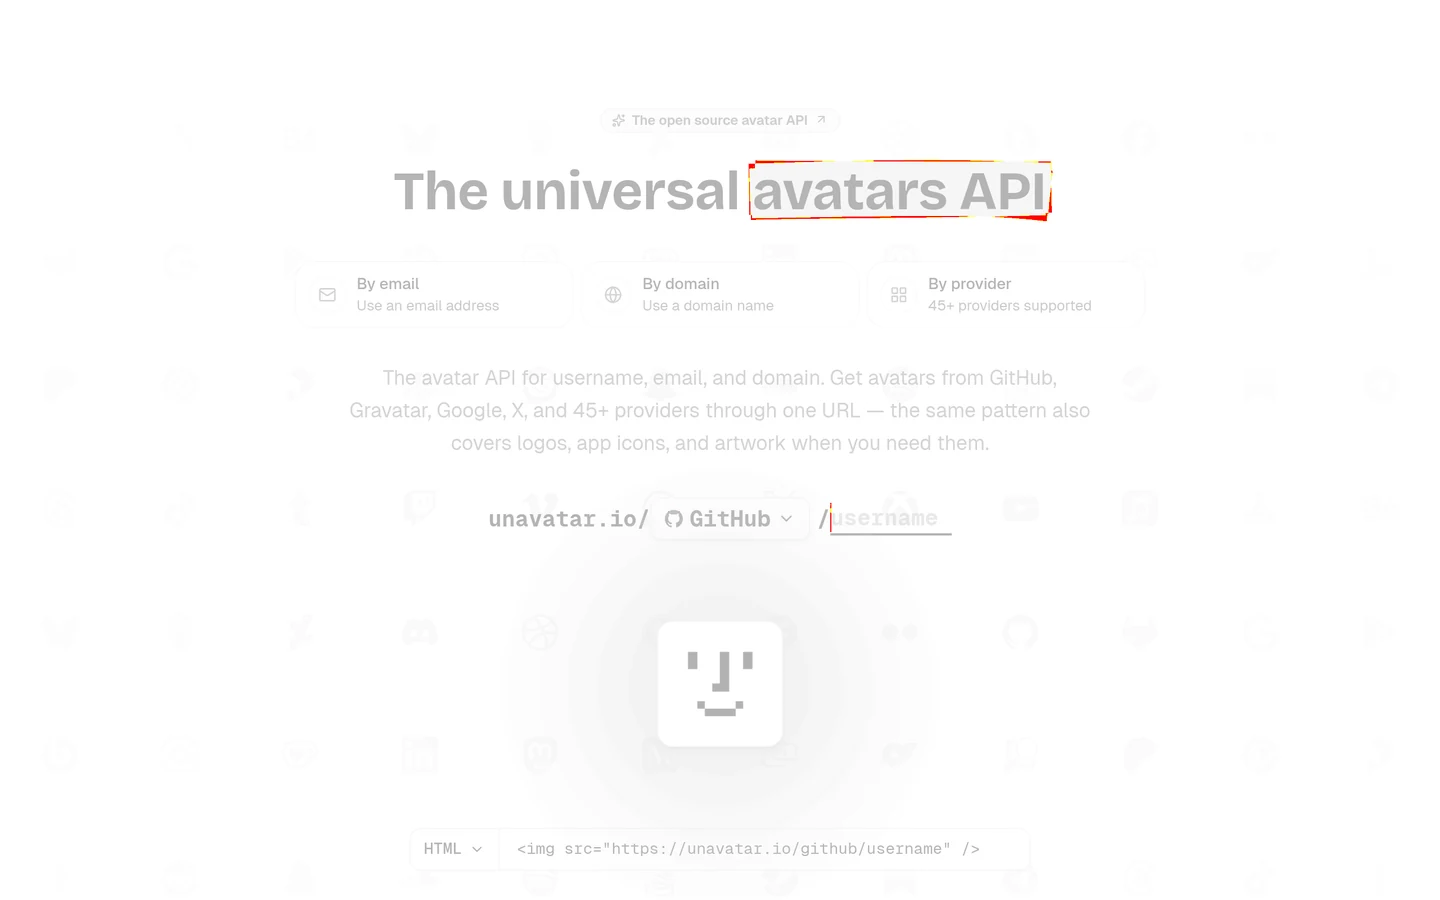
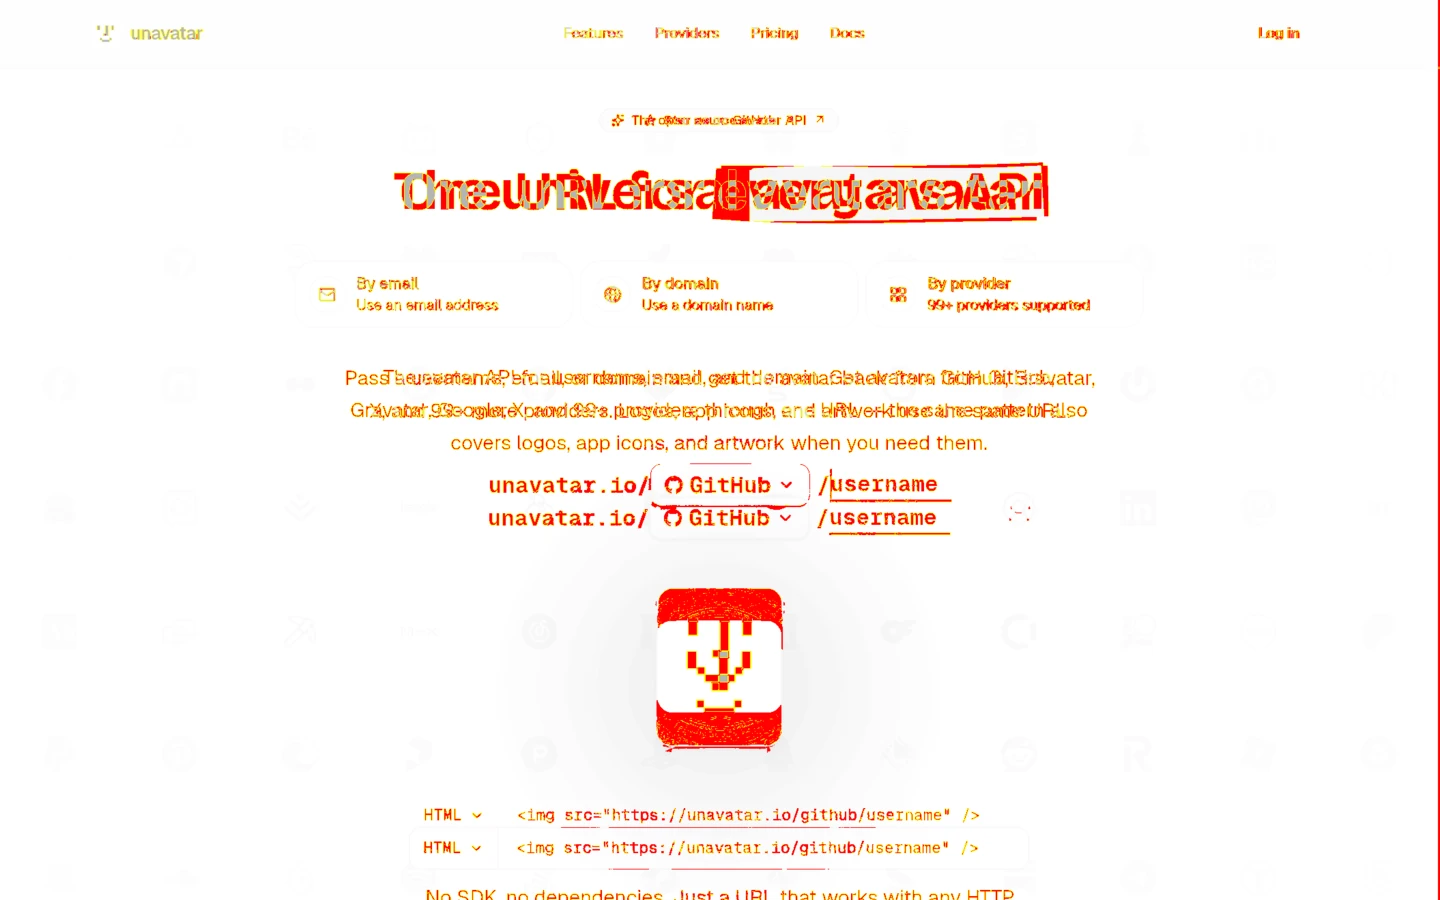
feat(web): real example from unavatar-www#192 (#54)
* feat(web): real example from unavatar-www#192

The old production/preview pair differed only by a few pixels of the
headline marker, so "Try a real example" showed almost nothing. The new
pair comes from a real visual-diff run (unavatar-www#192): new badge,
headline and intro, 3.52% changed, warning verdict.

- Rebuild all five example images from that run's screenshots
- scripts/build-examples.mjs regenerates them from any run, reusing
  lib/pixel-diff.ts for the highlight and the CLI's composite.js for the
  review image; README documents how to feed it
- How it works mirrors the real comment: / 3.52% Warning,
  /styleguide 0.17% Pass, "1/2 routes with warnings"
- comment-table gains the warning verdict the CLI already emits, with an
  amber token (#9e5a00, 5.36:1 on card) covered by the color tests
- Captions and alt text describe the new change; drop the claim that
  the comment links the review image (it does not)
- Export slugFor from the CLI's s3.js so the script resolves file names
  the same way the action uploads them

* fix(web): pad example screenshots in both dimensions, keep review footer

- Pad base, head and diff to a common width and height, as the CLI does,
  so a shorter screenshot cannot clip the highlight or the review columns
- Size the review columns from composite.js's exported header, footer and
  separator constants so review.webp keeps the verdict footer
- Read a local CLI --out folder as is (single- or multi-route)
[…]

diff --git a/packages/web/components/landing/how-it-works.tsx b/packages/web/components/landing/how-it-works.tsx
@@ -2,7 +2,7 @@ import { BrushStroke } from "./brush-stroke"
 import { MicrolinkLink } from "./microlink-link"
 import { Reveal } from "./reveal"
 import { TEXT_LINK_CLASS } from "@/lib/link"
-import { columnClass, verdictClass, verdictLabel } from "@/lib/comment-table"
+import { columnClass, verdictClass, verdictDotClass, verdictLabel } from "@/lib/comment-table"
 import { EXAMPLE_COMPARE_URL, EXAMPLE_IMAGES } from "@/lib/site"
 
 const STAGES: { title: string; body: React.ReactNode }[] = [
@@ -40,8 +40,8 @@ const COLUMNS = [
 ]
 
 const ROUTES = [
-  { route: "/kikobeats", changes: "3.20%", verdict: "fail" },
-  { route: "/", changes: "0.01%", verdict: "pass" },
+  { route: "/", changes: "3.52%", verdict: "warning" },
+  { route: "/styleguide", changes: "0.17%", verdict: "pass" },
 ] as const
 
 function PullRequestComment() {
@@ -50,18 +50,18 @@ function PullRequestComment() {
       <div className="flex items-center gap-3 bg-muted px-4 py-3.5 text-[14px] sm:px-5">
         <img src="https://cdn.microlink.io/logo/logo.svg" alt="" width={24} height={24} className="h-6 w-6 rounded-full bg-background" />
         <span>
-          <span className="font-semibold">github-actions</span> <span className="text-muted-foreground">commented on #106</span>
+          <span className="font-semibold">github-actions</span> <span className="text-muted-foreground">commented on #192</span>
         </span>
       </div>
       <div className="px-4 pb-5 pt-4 sm:px-5">
         <p className="text-[18px] font-semibold tracking-[-0.01em]">@microlink/difftool visual comparison</p>
         <p className="mt-1 text-[14px] text-muted-foreground">
           base <span className="text-link">unavatar.io</span> · head{" "}
-          <span className="text-link">unavatar-www-git-fix-microlink.vercel.app</span>
+          <span className="text-link">unavatar-5xos75mnn-microlink.vercel.app</span>
         </p>
         <p className="mt-4 flex items-center gap-2 text-[16px] font-semibold">
-          <span className="h-2.5 w-2.5 rounded-full bg-destructive" aria-hidden />
-          1/2 routes failed
+          <span className={`h-2.5 w-2.5 rounded-full ${verdictDotClass("warning")}`} aria-hidden />
+          1/2 routes with warnings
         </p>
         <div className="mt-3 overflow-x-auto">
           <table className="w-full sm:min-w-[520px] border-collapse text-left text-[14px]">
@@ -136,19 +136,19 @@ export function HowItWorks() {
             <figure>
               <img
                 src="/examples/highlight.webp"
-                alt="The unavatar.io headline in highlight mode: the yellow marker behind “avatars API” moved by a few pixels, and every pixel it moved is painted pink."
+                alt="The unavatar.io hero in highlight mode: the badge changed from “The open source avatar API” to “Star us on GitHub”, the headline from “The universal avatars API” to “One URL for every avatar”, and the pixels that changed past the highlight threshold are painted pink."
                 width={1440}
                 height={440}
                 loading="lazy"
                 className="w-full rounded-2xl bg-card"
               />
               <figcaption className="mt-3 max-w-[60ch] text-[16px] leading-[1.6] text-ink-panel-muted">
-                The 0.01% on that route, up close: the marker behind the headline shifted, and every pixel it moved is
-                pink. The comment also links the{" "}
+                Where the 3.52% starts: a new badge and headline, with every pixel past the highlight threshold painted pink. Each run also
+                renders a{" "}
                 <a href="/examples/review.webp" className={TEXT_LINK_CLASS}>
                   full review image
-                </a>
-                .
+                </a>{" "}
+                with production, preview and diff side by side.
               </figcaption>
             </figure>
           </Reveal>

diff --git a/packages/web/lib/comment-table.ts b/packages/web/lib/comment-table.ts
@@ -1,6 +1,27 @@
+export type Verdict = "fail" | "warning" | "pass"
+
 export const columnClass = (wide: boolean) => (wide ? "hidden sm:table-cell" : "")
 
-export const verdictClass = (verdict: "fail" | "pass") =>
-  verdict === "fail" ? "text-destructive" : "text-success"
+const VERDICT_TEXT_CLASS: Record<Verdict, string> = {
+  fail: "text-destructive",
+  warning: "text-warning",
+  pass: "text-success",
+}
 
-export const verdictLabel = (verdict: "fail" | "pass") => (verdict === "fail" ? "Fail" : "Pass")
+const VERDICT_DOT_CLASS: Record<Verdict, string> = {
+  fail: "bg-destructive",
+  warning: "bg-warning",
+  pass: "bg-success",
+}
+
+const VERDICT_LABEL: Record<Verdict, string> = {
+  fail: "Fail",
+  warning: "Warning",
+  pass: "Pass",
+}
+
+export const verdictClass = (verdict: Verdict) => VERDICT_TEXT_CLASS[verdict]
+
+export const verdictDotClass = (verdict: Verdict) => VERDICT_DOT_CLASS[verdict]
+
+export const verdictLabel = (verdict: Verdict) => VERDICT_LABEL[verdict]

diff --git a/packages/web/app/globals.css b/packages/web/app/globals.css
@@ -8,6 +8,7 @@
   --hover-link-brand: #015cba;
   --clay: #c48472;
   --teal9: #087f5b;
+  --amber11: #9e5a00;
   --shadow-ink: 16, 24, 40;
 
   --background: oklch(1 0 0);
@@ -36,6 +37,7 @@
   --destructive: oklch(0.57 0.19 23.03);
   --destructive-foreground: oklch(1 0 0);
   --success: var(--teal9);
+  --warning: var(--amber11);
   --border: oklch(0.92 0 0);
   --panel-border: var(--border);
   --brush-stroke: var(--clay);
@@ -97,6 +99,7 @@
   --color-destructive-foreground: var(--destructive-foreground);
   --color-surface-hover: var(--surface-hover);
   --color-success: var(--success);
+  --color-warning: var(--warning);
   --color-code-plain: var(--code-plain);
   --color-code-punctuation: var(--code-punctuation);
   --color-code-value: var(--code-value);

diff --git a/packages/web/components/landing/modes-demo.tsx b/packages/web/components/landing/modes-demo.tsx
@@ -34,8 +34,8 @@ export function ModesDemo() {
           </h2>
           <BrushStroke className="mt-6 block" />
           <p className="mt-5 max-w-[46ch] text-[18px] leading-[1.6] text-muted-foreground">
-            Every compare link in the comment opens here. This is the pull request from above: the unavatar.io
-            headline moved by a few pixels. Switch modes and find it.
+            Every compare link in the comment opens here. This is the pull request from above: a new badge, headline
+            and intro on unavatar.io, and everything under them moved up. Switch modes and watch it change.
           </p>
         </Reveal>
 

diff --git a/packages/cli/src/composite.js b/packages/cli/src/composite.js
@@ -1,8 +1,8 @@
 import { createCanvas, loadImage } from 'canvas'
 
-const HEADER_HEIGHT = 64
-const FOOTER_HEIGHT = 40
-const SEPARATOR_WIDTH = 2
+export const HEADER_HEIGHT = 64
+export const FOOTER_HEIGHT = 40
+export const SEPARATOR_WIDTH = 2
 const PADDING_X = 16
 
 const truncate = (str, max) => (str.length <= max ? str : `${str.slice(0, max - 1)}…`)

diff --git a/packages/cli/src/s3.js b/packages/cli/src/s3.js
@@ -16,7 +16,7 @@ const DEFAULT_TTL_SECONDS = 86400
 
 const FILES = ['base.png', 'head.png', 'diff.png', 'review.png']
 
-const slugFor = route => {
+export const slugFor = route => {
   if (!route.outDir || route.outDir === '.') return 'root'
   return route.outDir
 }

diff --git a/packages/web/README.md b/packages/web/README.md
@@ -20,6 +20,7 @@ lib/workflow.ts            builds the workflow YAML and the S3 config the wizard
 lib/pixel-diff.ts          the highlight and subtract algorithms
 lib/metadata.ts            title, description, manifest and JSON-LD, shared by app/layout.tsx and app/page.tsx
 public/examples/           a real production/preview pair from unavatar.io used by "Try a real example"
+scripts/build-examples.mjs rebuilds public/examples from one difftool run
 ```
 
 ## Development
@@ -49,6 +50,23 @@ packages/web/scripts/generate-icons.sh   # from the repository root; needs rsvg-
 ```
 
 It writes `app/favicon.ico` (16, 32, 48px), `app/apple-icon.png` (180px) and `public/icon-{192,512}.png` for the web manifest. The output is the same on every run, so a diff shows only real changes. `lib/metadata.test.mjs` fails if an icon goes missing or its size stops matching the manifest.
+
+## Example images
+
+`public/examples/` comes from one real run of the GitHub Action ([unavatar-www#192](https://github.com/microlinkhq/unavatar-www/pull/192)). `production.webp` and `preview.webp` feed "Try a real example"; `diff.webp`, `highlight.webp` and `review.webp` illustrate "How it works".
+
+To swap in another run, point the script at either:
+
+- **A local CLI run:** its `--out` folder, as is. The CLI writes `summary.json` there, with the images in the same folder for a single route, or in `<out>/<outDir>/` for several.
+- **A PR comment:** a folder holding `summary.json` (the configuration block at the bottom of the comment; pasting it with its `<pre><code>` tags is fine) and `<slug>-base.png`, `<slug>-head.png`, `<slug>-diff.png` from the route's Production, Preview and Difference "open" links. `<slug>` is `root` for `/` and for a single-route run, otherwise the route's `outDir`. The links are presigned for 24 hours and the files are deleted when the PR closes, so download them while the PR is open.
+
+Then, from the repository root, with `pnpm install` done (it brings `canvas` for the CLI) and ImageMagick on the path:
+
+```bash
+node packages/web/scripts/build-examples.mjs <folder> [route] [left,top,width]
+```
+
+`route` defaults to `/`. `left,top,width` frames `highlight.webp`, in pixels of the 1440px-wide preview; the default `317,84,805` fits the unavatar.io hero, so pass your own for any other page. The script crops every image from the same screenshots, runs the highlight with `lib/pixel-diff.ts` and the review with the CLI's `composite.js`, so the images match what the site and the action render. Last, update the numbers, captions and alt text in `components/landing/how-it-works.tsx` and the intro in `components/landing/modes-demo.tsx` to describe the new run.
 
 ## Deploying
 
